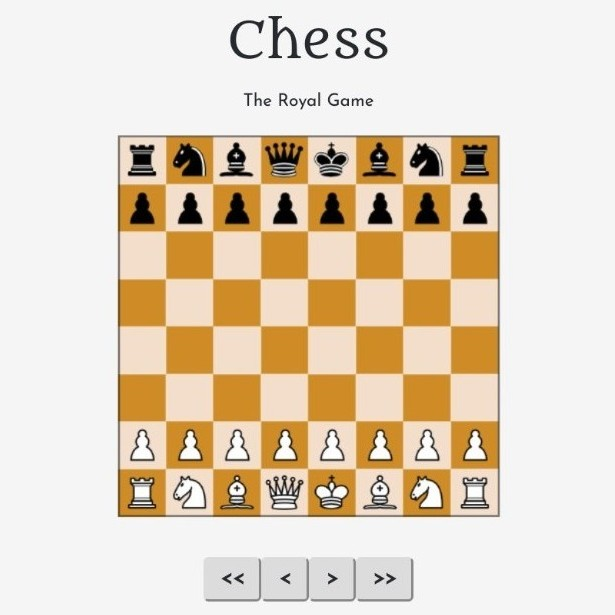
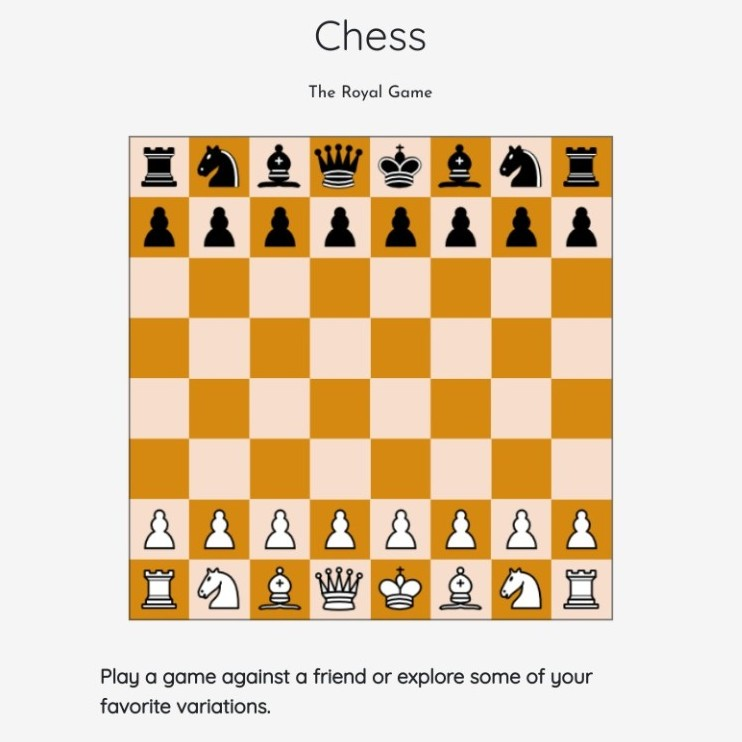
changed some screenshots and added text to bottom of portfolio page

diff --git a/src/components/pages/PortfolioPage.js b/src/components/pages/PortfolioPage.js
@@ -96,7 +96,7 @@ class PortfolioPage extends Component {
 
         </Div>
 
-        <hr/>
+        <hr />
         <P className="" style={styles.appTitle}>
           Web
         </P>
@@ -116,6 +116,15 @@ class PortfolioPage extends Component {
           {this.displayApps(mobileApps)}
         </div>
 
+        <div className="" style={styles.paragraphHolder}>
+          <div className="" style={styles.paragraph}>
+            Check out the code for any of my projects on <a target="#blank" href="https://github.com/hwbell">github.</a>
+          </div>
+
+          <div className="" style={styles.paragraph}>
+            You can also see more apps & projects I've built on <a target="#blank" href="https://codepen.io/hbellatcodepen/pens/public/2/">codepen.</a>
+          </div>
+        </div>
       </Container >
     );
   }
@@ -126,7 +135,7 @@ export default PortfolioPage;
 const styles = {
   cardsContainer: {
     // width: '70%',
-    margin: '2vh 4vh 10vh 4vh',
+    margin: '2vh 4vh 2vh 4vh',
   },
   title: {
     // width: '80%',
@@ -161,5 +170,15 @@ const styles = {
     // minWidth: 180
     // margin: 'auto'
     // maxWidth: 300,
-  }
+  },
+  paragraphHolder: {
+    marginBottom: '14vh'
+  },
+  paragraph: {
+    // paddingTop: 10,
+    fontSize: 22,
+    width: '100%',
+    margin: '4vh',
+    // marginBottom: '14vh'
+  },
 }

diff --git a/src/components/pages/AboutPage.js b/src/components/pages/AboutPage.js
@@ -67,18 +67,20 @@ class HomePage extends Component {
 
       <Container className="container" style={styles.main}>
 
-        <P className="text-center" style={styles.title}>
-          About Me
-        </P>
+        <Div className="row">
+          <P className="col" style={styles.title}>
+            About Me
+          </P>
+        </Div>
         <hr />
-        
+
 
         <Img src={ProfilePic} className="row" style={styles.image} />
-        
+
         {/* <P className="text-center" style={styles.subTitle}>
           Nice to meet you!
         </P> */}
-        
+
         <Div style={styles.textContainer}>
           <P className="" style={styles.paragraph}>
             For the past 8 years I have been a research biologist in the
@@ -155,9 +157,9 @@ class HomePage extends Component {
           </P>
 
           <P className="row" style={styles.paragraph}>
-            <a target="_blank" 
+            <a target="_blank"
               href="https://www.lambdatest.com/blog/top-javascript-frameworks-for-2019/"
-              style={{marginLeft: '10px'}}>
+              style={{ marginLeft: '10px' }}>
               Top front-end frameworks in 2019
             </a>
           </P>

diff --git a/src/App.css b/src/App.css
@@ -321,6 +321,15 @@ p {
 }
 
 /* For the background switch on the home page */
+.animation-bg {
+  z-index: -1;
+  position: absolute;
+  width: 100%;
+  height: 100%;
+  left: 0; top: 0;
+  background: #4DD0E1;
+}
+
 .biologist-bg {
   color: black;
   z-index: -1;

diff --git a/src/components/pages/HomePage.js b/src/components/pages/HomePage.js
@@ -95,6 +95,8 @@ class HomePage extends Component {
 
           {this.state.devBackground && <div className="developer-bg"></div>}
 
+          {/* <div className="animation-bg"></div> */}
+
         </ReactCSSTransitionGroup>
 
 
